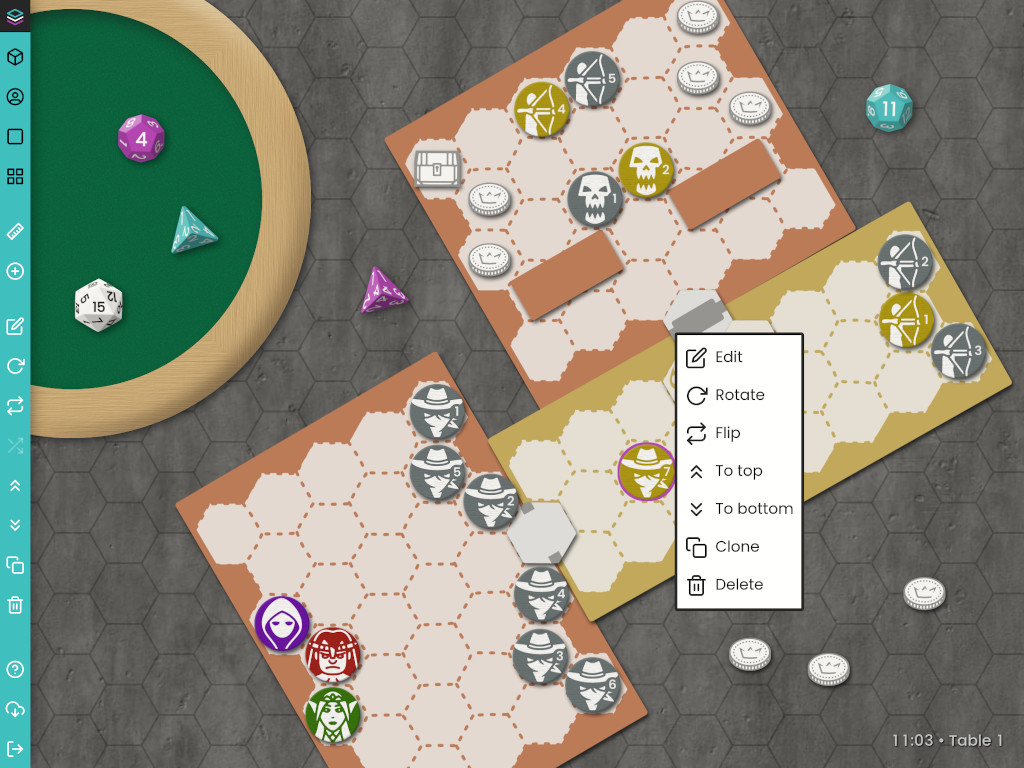
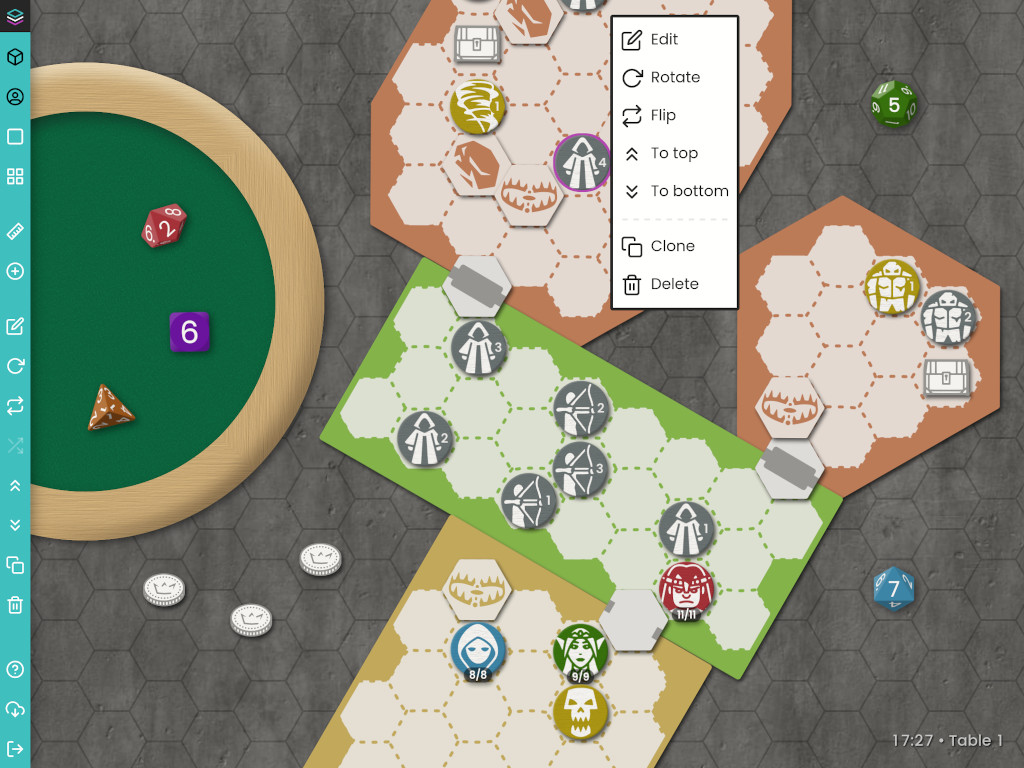
updated screenshots

diff --git a/docs/roadmap.md b/docs/roadmap.md
@@ -12,9 +12,9 @@ This document is part of the [FreeBeeGee documentation](DOCS.md). It contains a 
 * [X] content: more helper/marker overlays (pin, areas)
 * [X] system: random material offset
 * [X] protected pieces: no-delete, no-clone, no-move
-* [ ] pre-release
+* [X] pre-release
   * [X] bump dependencies
-  * [ ] bugfixes + refactoring
+  * [X] bugfixes + refactoring
     * [X] refactor pieces scss
     * [X] disable rotate for other-pieces
     * [X] count _ assets against room size limit
@@ -23,7 +23,7 @@ This document is part of the [FreeBeeGee documentation](DOCS.md). It contains a 
   * [X] review + run tests
   * [X] review tutorial
   * [X] bump engine, version/codename & update CHANGELOG
-  * [ ] update screenshots
+  * [X] update screenshots
 
 ## Backlog
 
